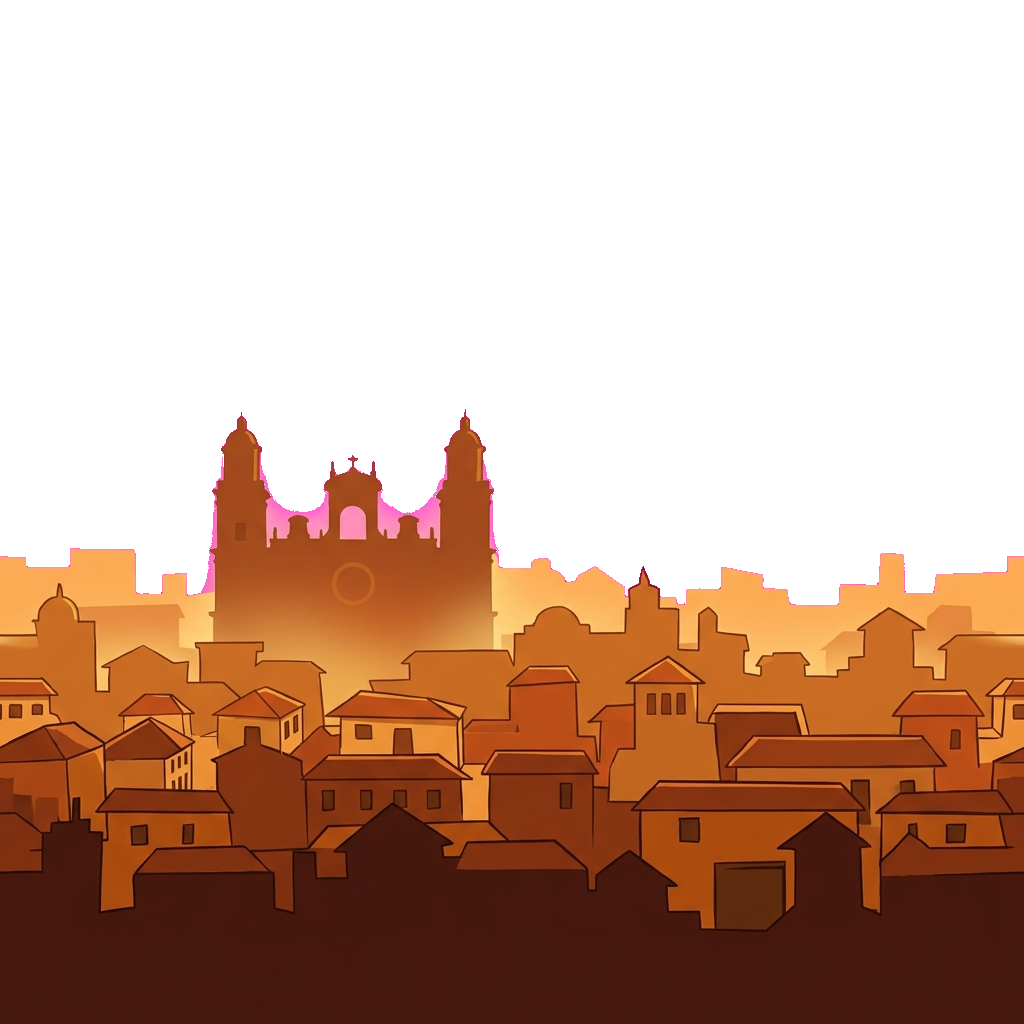
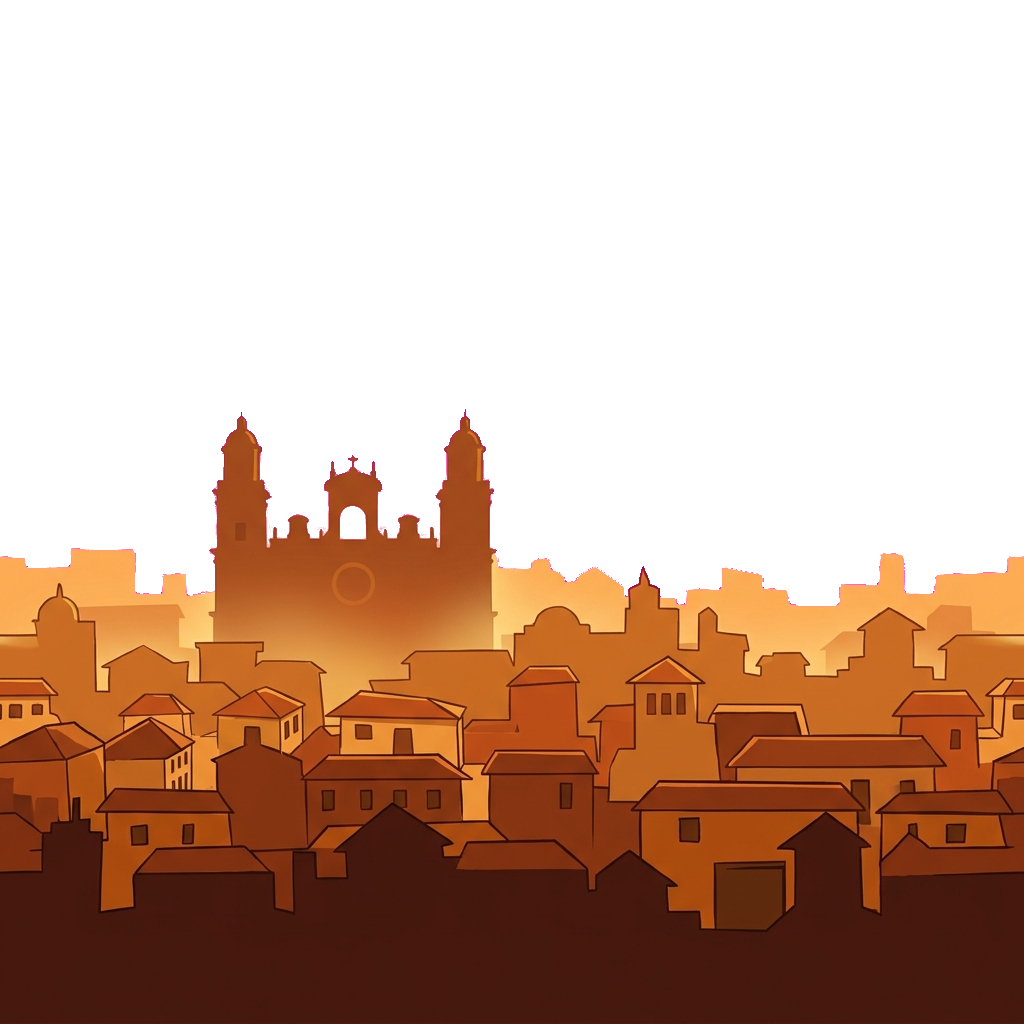
visual: further lower layer 1 alpha for better visibility

Changed region(s): [[0.25, 0.4688, 0.4375, 0.5312], [0.1875, 0.5, 0.2188, 0.5938], [0.4688, 0.5, 0.5, 0.5312]]

diff --git a/minigames/arcade/canarias_run/index.html b/minigames/arcade/canarias_run/index.html
@@ -508,7 +508,7 @@
             player.draw();
 
             // Layer 1: Enlarge even more and semi-transparent
-            drawParallaxLayer(l1, 1.5, 40, 'bottom', 0.6, 1.5);
+            drawParallaxLayer(l1, 1.5, 40, 'bottom', 0.35, 1.5);
         }
 
         function loop() {